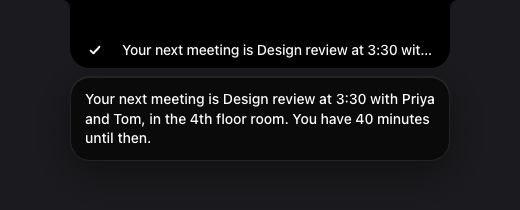
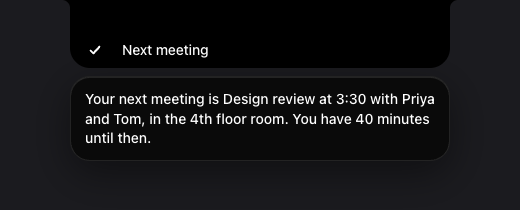
fix(island): a done card no longer repeats the answer; the island says ✓ and a 2-4 word title
When the answer overflows into the card, the island line now shows only a title of up to 4 words
(ellipsis past that), and the full text appears only in the card. The talk reply schema gains a
required `title` ("Next meeting"), which costs one field in the same call; Guardian keeps its own title.
Measured on the done-card shot: island text went from 117 chars (the whole answer, truncated) to
12 ("Next meeting"), and the same sentence is on screen once instead of twice.
The preload `stop` and 'ew:stop' are kept with a ponytail note (unused by the island).
Tests 401/401 offline. Shots re-rendered: thinking first frame p50 5.6 ms, CPU idle 0.10%.

Changed region(s): [[0.2154, 0.2, 0.8308, 0.2857]]

diff --git a/electron/src/main/everywhere.js b/electron/src/main/everywhere.js
@@ -226,8 +226,9 @@ const toLocal = (shot, [x, y]) => ({ x: Math.round((x * shot.bounds.width) / sho
 const PRESS = { name: 'press', description: 'Press a control from the latest numbered list of controls (a button, link, menu item, tab or checkbox), or put the cursor in a listed text box. Exact: use it instead of clicking coordinates whenever the control is listed.',
   input_schema: { type: 'object', additionalProperties: false, required: ['ref'], properties: { ref: { type: 'integer', description: 'The number in the list' } } } };
 const TALK_SCHEMA = {
-  type: 'object', additionalProperties: false, required: ['answer', 'steps', 'marks'],
+  type: 'object', additionalProperties: false, required: ['title', 'answer', 'steps', 'marks'],
   properties: {
+    title: { type: 'string', description: '2-4 words naming what the answer is about, e.g. "Next meeting" or "Sent to Alex"' },
     answer: { type: 'string' },
     steps: { type: 'array', items: { type: 'string' } },
     marks: { type: 'array', items: { type: 'object', additionalProperties: false, required: ['kind', 'x', 'y', 'w', 'h', 'label'],
@@ -417,7 +418,7 @@ export function setupEverywhere({ config, spend, here, userData, getMainWindow, 
     const marks = (r.marks ?? []).slice(0, 6).map((m) => ({ ...m, ...toLocal(shot, [m.x, m.y]), w: (m.w * shot.bounds.width) / shot.w, h: (m.h * shot.bounds.height) / shot.h }));
     // Guardian's warning goes first, in the same line (a second say() would cut the first one off).
     const warn = found[0] ? `${found[0].say} ` : '';
-    show({ state: 'done', title: found[0] ? 'Dixi Guardian' : 'Dixi', text: warn + r.answer, steps: (r.steps ?? []).slice(0, 6).map((label, i) => ({ label, state: i === 0 ? 'running' : 'queued' })), linger: 14000 });
+    show({ state: 'done', title: found[0] ? 'Dixi Guardian' : r.title || 'Dixi', text: warn + r.answer, steps: (r.steps ?? []).slice(0, 6).map((label, i) => ({ label, state: i === 0 ? 'running' : 'queued' })), linger: 14000 });
     ui('ew:marks', marks);
     say(warn + (r.steps?.length ? `${r.answer} Say “Dixi, do it” and I'll do it for you.` : r.answer));
   }
@@ -1454,7 +1455,7 @@ export function setupEverywhere({ config, spend, here, userData, getMainWindow, 
   // The agent's own clicks land on real screen points, the panel included: a press on Yes within half a
   // second of one is the agent's, not yours.
   ipcMain.on('ew:approve', (e, id, ok) => { if (fromOverlay(e) && Date.now() - (state.lastSynthetic ?? 0) > 500) approvals.get(Number(id))?.(Boolean(ok)); });
-  ipcMain.on('ew:stop', (e) => { if (fromOverlay(e)) kill(); });
+  ipcMain.on('ew:stop', (e) => { if (fromOverlay(e)) kill(); });   // ponytail: the island has no stop button (⌥Space or the menu bar stops); kept for any page that sends it
   ipcMain.on('ew:mouse', (e, inside) => { if (fromOverlay(e)) state.overlay.setIgnoreMouseEvents(!inside, { forward: true }); });
   ipcMain.on('ew:undo', (e) => { if (fromOverlay(e)) run('undo').catch(() => {}); });
 

diff --git a/electron/src/renderer/everywhere/overlay.js b/electron/src/renderer/everywhere/overlay.js
@@ -62,6 +62,7 @@ const showMore = () => { more.hidden = pill.hidden || !($('full').textContent ||
 
 // A Guardian stop is a state with guard: true; it gets its own low tone and is announced at once.
 let last = 'idle';
+const brief = (t) => { const w = String(t).trim().split(/\s+/); return w.length > 4 ? `${w.slice(0, 4).join(' ')}…` : w.join(' '); };
 window.ew.on('ew:state', (s) => {
   const now = s.guard ? 'guard' : s.state;
   earcon(earconFor(last, now));
@@ -76,8 +77,11 @@ window.ew.on('ew:state', (s) => {
   const line = (view === 'acting' ? running || s.text || s.title : s.text || (view === 'done' || view === 'error' ? s.title : '')) ?? '';
   $('text').textContent = String(line).replace(/\s+/g, ' ').trim();
   $('undo').hidden = !(view === 'done' && s.undo);
-  // The whole answer goes in the card when one line can't hold it.
-  $('full').textContent = (view === 'done' || view === 'error') && $('text').scrollWidth > $('text').clientWidth ? s.text ?? '' : '';
+  // The whole answer goes in the card when one line can't hold it; then the island says only what it's about
+  // (✓ and a few words of the title), so the same sentence never shows twice.
+  const card = (view === 'done' || view === 'error') && $('text').scrollWidth > $('text').clientWidth;
+  $('full').textContent = card ? s.text ?? '' : '';
+  if (card) $('text').textContent = brief(s.title || (view === 'done' ? 'Done' : 'Error'));
   $('steps').innerHTML = (s.steps ?? []).length > 1 ? s.steps.map((x) => `<li data-state="${esc(x.state)}">${esc(x.label)}</li>`).join('') : '';
   $('hive').innerHTML = (s.hive ?? []).map((x) => `<li data-status="${esc(x.status)}"><b>${esc(x.task.slice(0, 70))}</b><span>${esc(x.step ?? '')}</span></li>`).join('');
   showMore();
